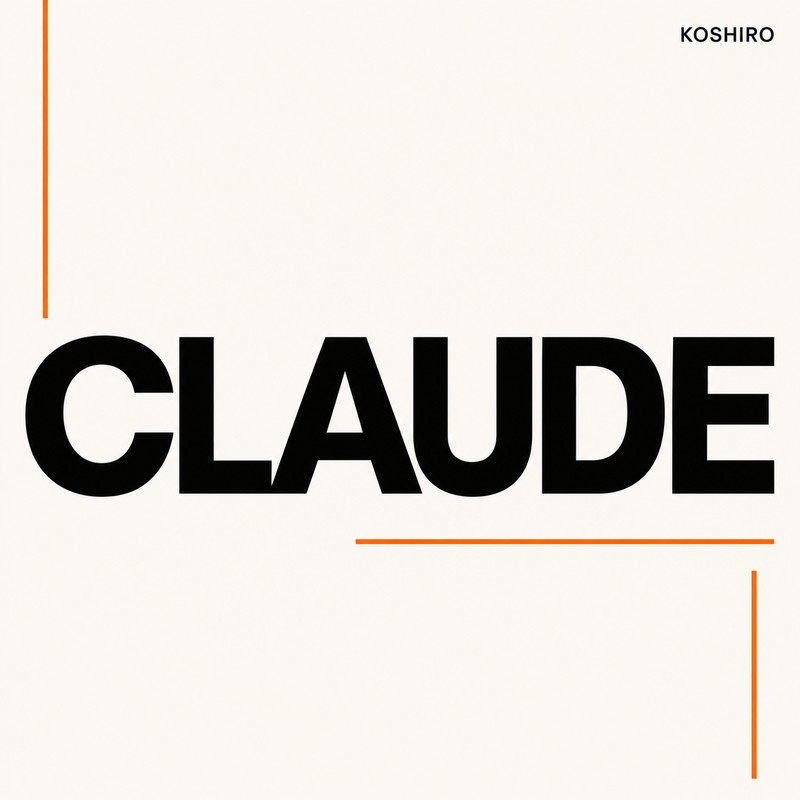
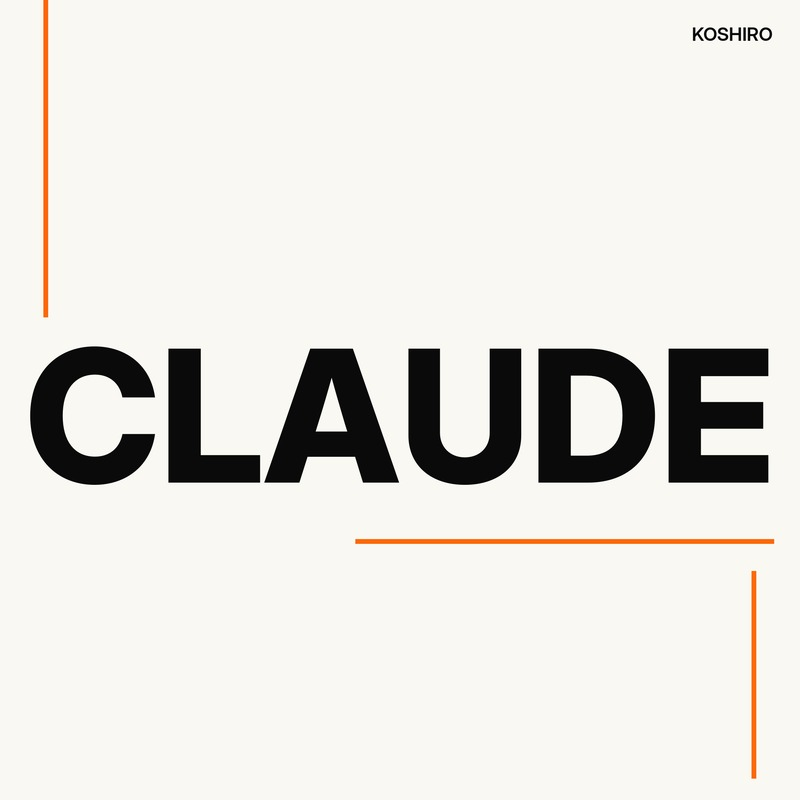
CLAUDE のジャケットを描き直し（L と A がくっつかないように） (#66)
Claude-Session: https://claude.ai/code/session_01Rw4hYeJdwbNEViPJgg9M1V

Changed region(s): [[0.0312, 0.4062, 0.9688, 0.625], [0.0312, 0.0, 0.0625, 0.4062], [0.8438, 0.0312, 0.9688, 0.0625]]

diff --git a/modern.html b/modern.html
@@ -335,9 +335,9 @@
               </button>
             </li>
             <li>
-              <button class="tracklist-row" type="button" data-src="audio/claude.m4a" data-seconds="162" data-art="images/jacket-claude.jpg?v=3" data-art-alt="ジャケット：オフホワイトの地に黒く大きな CLAUDE の文字と、オレンジの細い線。右上に KOSHIRO" data-peaks="24,26,26,32,29,30,30,34,46,52,49,49,49,42,52,64,66,72,83,75,82,72,80,80,68,63,73,62,67,64,66,67,62,72,68,69,57,69,67,78,78,71,72,71,73,70,73,70,76,70,74,70,74,76,79,81,85,76,64,63,61,55,55,52,38,62,75,75,79,73,76,75,82,75,78,79,80,77,75,80,76,78,77,82,75,78,74,83,79,77,36,46,76,69,77,67,75,65,79,89,80,62,78,64,77,69,81,86,82,82,77,83,79,84,79,81,64,59,60,61,62,61,64,61,69,70,69,86,82,85,80,88,83,87,80,85,83,84,82,82,87,84,88,86,88,82,87,83,89,85,87,72,76,76,72,80,76,86,74,99,97,100,99,100,97,100,100,100,95,97,97,98,95,96,99,82,59,43,38,29">
+              <button class="tracklist-row" type="button" data-src="audio/claude.m4a" data-seconds="162" data-art="images/jacket-claude.jpg?v=4" data-art-alt="ジャケット：オフホワイトの地に黒く大きな CLAUDE の文字と、オレンジの細い線。右上に KOSHIRO" data-peaks="24,26,26,32,29,30,30,34,46,52,49,49,49,42,52,64,66,72,83,75,82,72,80,80,68,63,73,62,67,64,66,67,62,72,68,69,57,69,67,78,78,71,72,71,73,70,73,70,76,70,74,70,74,76,79,81,85,76,64,63,61,55,55,52,38,62,75,75,79,73,76,75,82,75,78,79,80,77,75,80,76,78,77,82,75,78,74,83,79,77,36,46,76,69,77,67,75,65,79,89,80,62,78,64,77,69,81,86,82,82,77,83,79,84,79,81,64,59,60,61,62,61,64,61,69,70,69,86,82,85,80,88,83,87,80,85,83,84,82,82,87,84,88,86,88,82,87,83,89,85,87,72,76,76,72,80,76,86,74,99,97,100,99,100,97,100,100,100,95,97,97,98,95,96,99,82,59,43,38,29">
                 <span class="tracklist-cover">
-                  <img class="tracklist-art" src="images/jacket-claude.jpg?v=3" alt="" width="400" height="400" loading="lazy" />
+                  <img class="tracklist-art" src="images/jacket-claude.jpg?v=4" alt="" width="400" height="400" loading="lazy" />
                   <span class="tracklist-mark" aria-hidden="true"><svg class="tracklist-play" viewBox="0 0 24 24" focusable="false"><path d="M8 5v14l11-7z"/></svg><span class="tracklist-bars"><i></i><i></i><i></i></span></span>
                 </span>
                 <span class="tracklist-meta"><span class="tracklist-num">2</span><span class="tracklist-length">2:42</span></span>
